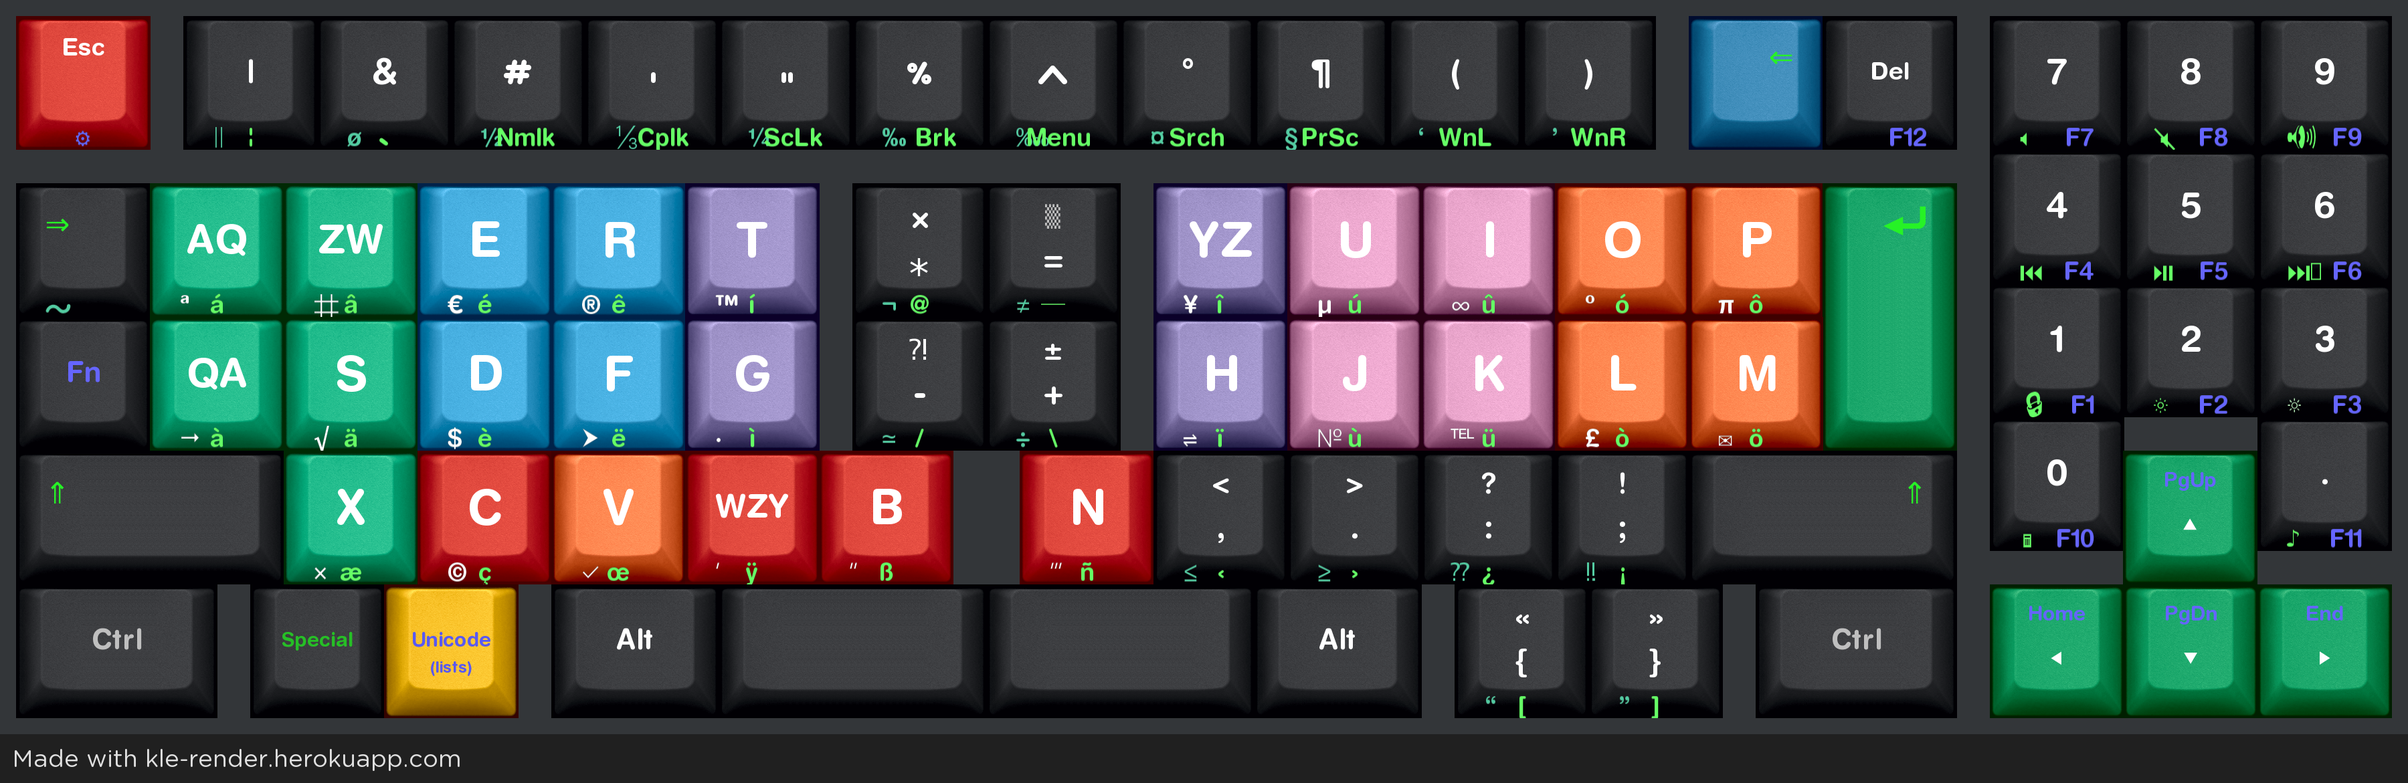
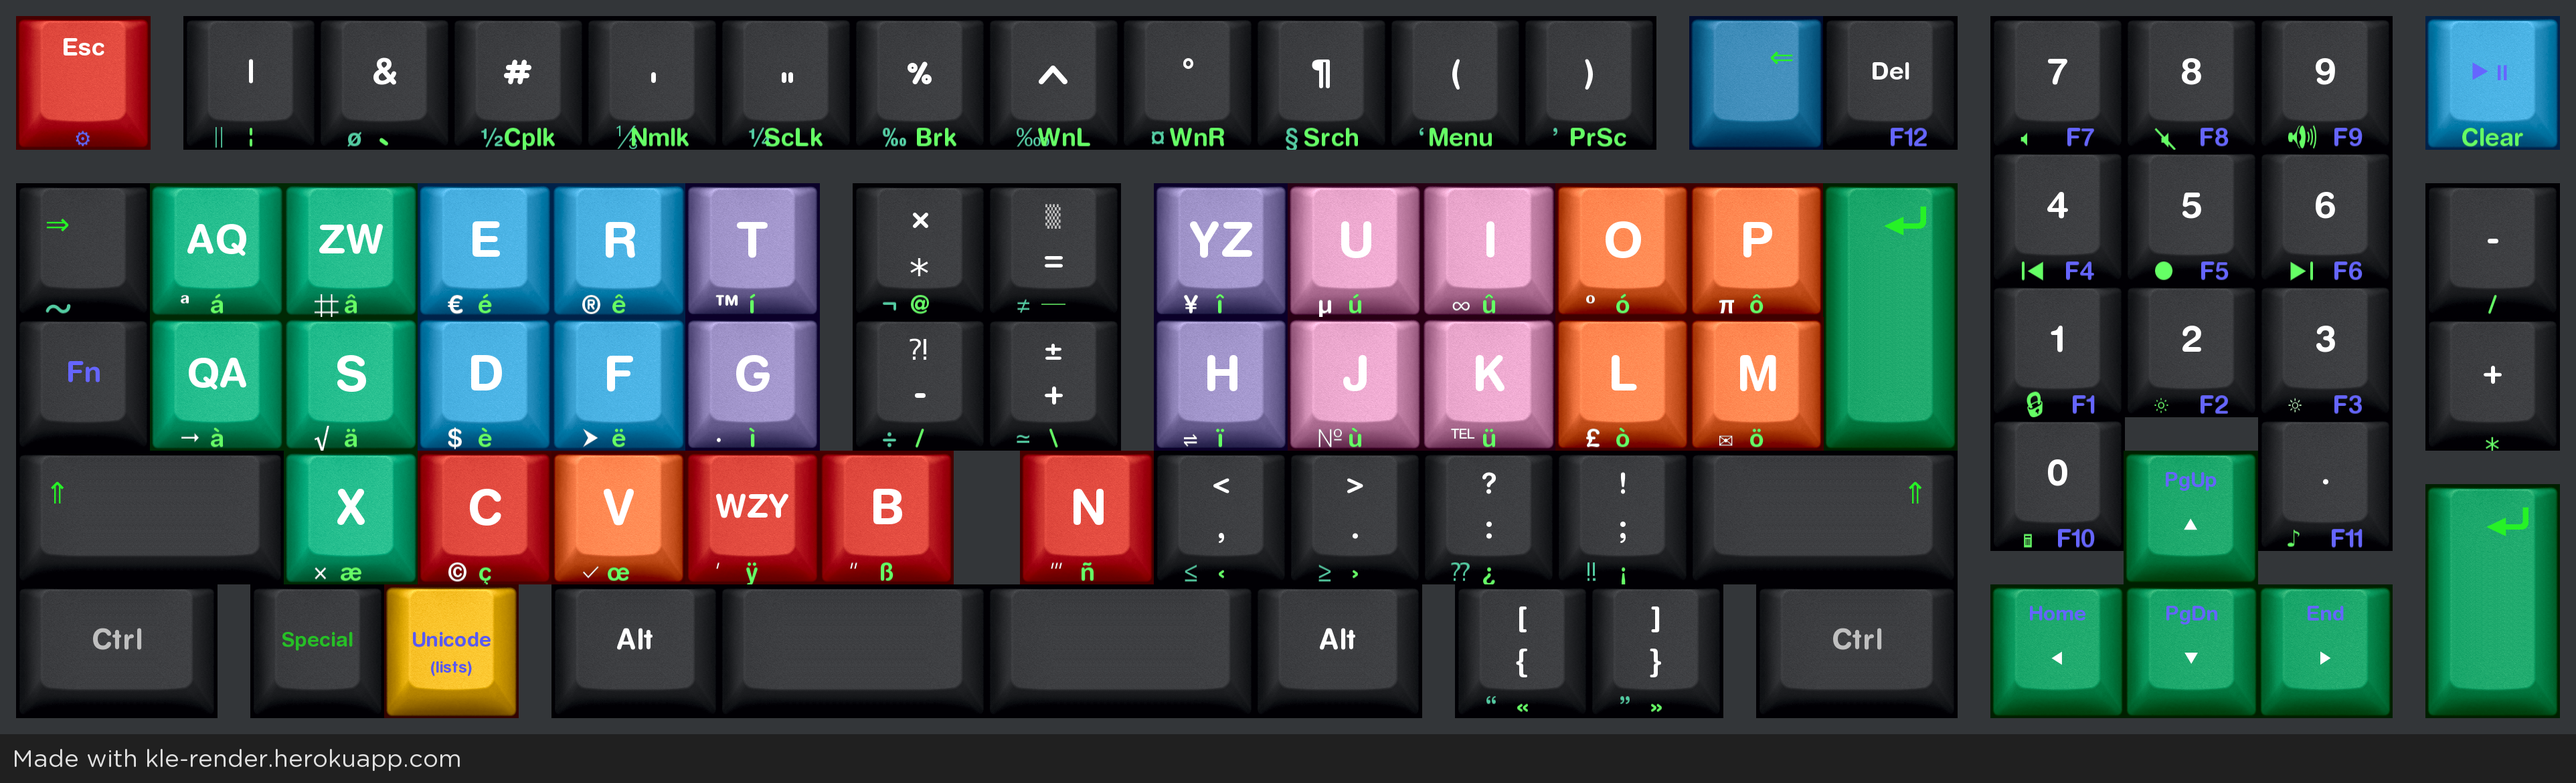
Add files via upload

diff --git a/README.md b/README.md
@@ -453,6 +453,10 @@ The better option I've found is:
 - Optionally color the keys of the same group as described
 
 ![End](Pictures/11-End.png)
+- Yellow inscriptions are done by long press
+- Green ones are done with Special key (timer, no need to stay pressed)
+- Blue ones with Fn key
+- The yellow key Unicode launch and control RALTUnicode
 <br><br>
 
 ## Related links and source
